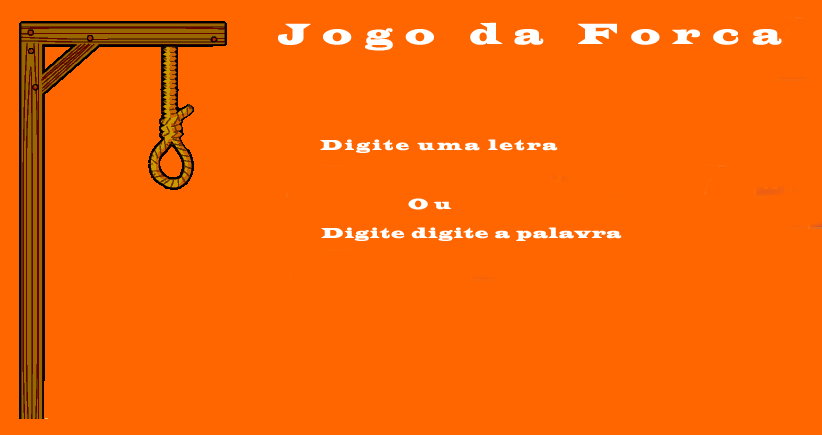
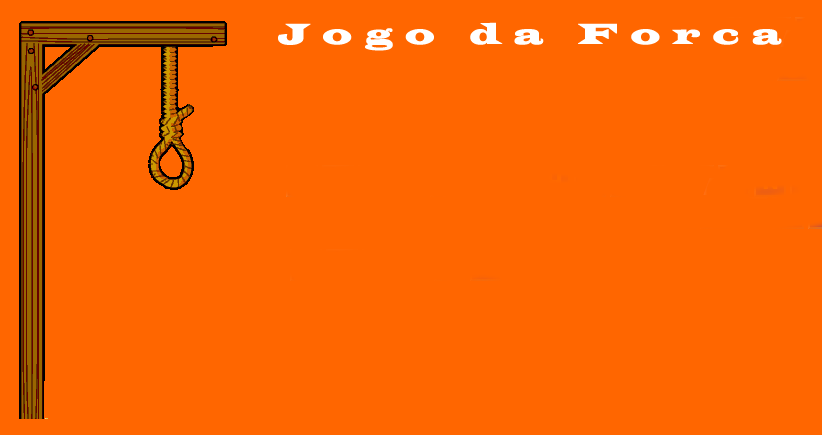
Atualização.

Changed region(s): [[0.3954, 0.508, 0.7603, 0.5678], [0.3954, 0.2989, 0.6995, 0.3586], [0.4866, 0.4483, 0.5474, 0.4782]]

diff --git a/JogoForca/src/main/java/com/jogoforca/ui/FrmPrincipal.java b/JogoForca/src/main/java/com/jogoforca/ui/FrmPrincipal.java
@@ -11,19 +11,26 @@ import javax.swing.JLabel;
 import javax.swing.JButton;
 
 import com.jogoforca.dao.PalavrasDao;
+import com.jogoforca.model.Palavra;
 
 import java.awt.event.ActionListener;
 import java.awt.event.ActionEvent;
+import java.awt.event.KeyListener;
 
 import javax.swing.JDesktopPane;
+import javax.swing.JOptionPane;
 import javax.swing.JTabbedPane;
 import javax.swing.JMenuBar;
 import javax.swing.JMenu;
 import javax.swing.JMenuItem;
 import javax.swing.ImageIcon;
 import javax.swing.JTextField;
+import javax.swing.SwingUtilities;
 
 import java.awt.Window.Type;
+import java.awt.Font;
+import java.awt.event.KeyAdapter;
+import java.awt.event.KeyEvent;
 
 public class FrmPrincipal extends JFrame {
 
@@ -38,7 +45,19 @@ public class FrmPrincipal extends JFrame {
 	final JLabel imgPeDir = new JLabel("");
 	final JLabel imgTronco = new JLabel("");
 	final JLabel imgMaoDir = new JLabel("");
+	
+	JLabel lblPalavra = new JLabel("");
+	
+	final JButton btnIniciar = new JButton("Iniciar Partida");
+	final JButton btnCancelar = new JButton("Cancelar");
+	final JButton btnVerificar = new JButton("Verificar");
 
+	private PalavrasDao daoPalavra = new PalavrasDao();
+	private Palavra palavra = new Palavra();
+	
+	// Serve para ir mostrando o corpo do boneco
+	private Integer contadorBoneco = 0;
+	
 	/**
 	 * Launch the application.
 	 */
@@ -67,7 +86,11 @@ public class FrmPrincipal extends JFrame {
 		setContentPane(contentPane);
 		contentPane.setLayout(null);
 		
-		JButton btnCancelar = new JButton("Cancelar");
+		lblPalavra.setVisible(false);
+		btnIniciar.setEnabled(true);
+		btnCancelar.setEnabled(false);
+		btnVerificar.setEnabled(false);
+		
 		btnCancelar.addActionListener(new ActionListener() {
 			public void actionPerformed(ActionEvent e) {
 				
@@ -81,23 +104,80 @@ public class FrmPrincipal extends JFrame {
 				imgPeEsq.setVisible(true);
 				imgTronco.setVisible(true);
 				
+				btnIniciar.setEnabled(true);
+				btnCancelar.setEnabled(false);
+				lblPalavra.setVisible(false);
+				btnVerificar.setEnabled(false);
+				
 			}
 		});
+		
+		
+		lblPalavra.setFont(new Font("Tahoma", Font.BOLD, 20));
+		lblPalavra.setBounds(280, 80, 504, 31);
+		contentPane.add(lblPalavra);
+		
+		JLabel lblOu = new JLabel("OU");
+		lblOu.setFont(new Font("Tahoma", Font.BOLD, 20));
+		lblOu.setBounds(279, 168, 46, 31);
+		contentPane.add(lblOu);
+		
+		JLabel lblDigiteAPalavra = new JLabel("Digite a Palavra ou Frase:");
+		lblDigiteAPalavra.setFont(new Font("Tahoma", Font.BOLD, 20));
+		lblDigiteAPalavra.setBounds(280, 198, 288, 31);
+		contentPane.add(lblDigiteAPalavra);
+		
+		JLabel lblNewLabel = new JLabel("Digite uma letra:");
+		lblNewLabel.setFont(new Font("Tahoma", Font.BOLD, 20));
+		lblNewLabel.setBounds(280, 136, 180, 31);
+		contentPane.add(lblNewLabel);
 		btnCancelar.setBounds(552, 403, 131, 31);
 		contentPane.add(btnCancelar);
 		
-		JButton btnNewButton = new JButton("Verificar");
-		btnNewButton.setBounds(500, 330, 89, 23);
-		contentPane.add(btnNewButton);
+		
+		btnVerificar.addActionListener(new ActionListener() {
+			public void actionPerformed(ActionEvent e) {
+				
+				// Existe o caracter na palavra
+				if(palavra.getDescricao().indexOf(txtLetra.getText()) != -1){
+					JOptionPane.showMessageDialog(null,"Letra encontrada na Palavra ou Frase!");
+				} else
+				{
+					
+					switch (contadorBoneco) {
+					case 0: imgCabeca.setVisible(true); break;
+					case 1: imgCorpo.setVisible(true); break;
+					case 2: imgMaoDir.setVisible(true); break;
+					case 3: imgMaoEsq.setVisible(true); break;
+					case 4: imgTronco.setVisible(true); break;
+					case 5: imgPeDir.setVisible(true); break;
+					case 6: imgPeEsq.setVisible(true); break;
+					case 7: imgCabeca.setIcon(new ImageIcon(FrmPrincipal.class.getResource("/img/cabecaFim.png"))); break;
+					
+					default:
+						break;
+					}
+					
+					contadorBoneco++;
+					
+				}
+				
+			}
+		});
+		btnVerificar.setBounds(616, 173, 89, 23);
+		contentPane.add(btnVerificar);
 		
 		txtPalavra = new JTextField();
-		txtPalavra.setBounds(261, 327, 229, 29);
+		txtPalavra.setBounds(280, 227, 263, 29);
 		contentPane.add(txtPalavra);
 		txtPalavra.setColumns(10);
 		
 		txtLetra = new JTextField();
+		txtLetra.setFont(new Font("Arial Black", Font.BOLD, 20));
+		txtLetra.addKeyListener(new KeyAdapter() { public void keyTyped(KeyEvent e) { char keyChar = e.getKeyChar(); if (Character.isLowerCase(keyChar)) { e.setKeyChar(Character.toUpperCase(keyChar)); } } });
+		
 		//txtLetra.setFont(new Font("Arial", Font.BOLD, 20));
-		txtLetra.setBounds(394, 171, 46, 31);
+		txtLetra.setBounds(470, 140, 46, 31);
 		contentPane.add(txtLetra);
 		txtLetra.setColumns(10);
 		
@@ -142,9 +222,9 @@ public class FrmPrincipal extends JFrame {
 		JMenu mnAbout = new JMenu("About");
 		menuBar.add(mnAbout);
 		
-		JLabel label = new JLabel("");
-		label.setBounds(132, 195, 84, 107);
-		contentPane.add(label);
+		JLabel lblNewLabel_1 = new JLabel("New label");
+		lblNewLabel_1.setBounds(0, 0, 46, 14);
+		contentPane.add(lblNewLabel_1);
 		
 		
 		imgMaoDir.setIcon(new ImageIcon(FrmPrincipal.class.getResource("/img/maoDir.png")));
@@ -166,10 +246,12 @@ public class FrmPrincipal extends JFrame {
 		imgPeEsq.setBounds(95, 318, 72, 91);
 		contentPane.add(imgPeEsq);
 		
-		JButton btnIniciar = new JButton("Iniciar Partida");
+		
 		btnIniciar.addActionListener(new ActionListener() {
 
 			public void actionPerformed(ActionEvent e) {
+				
+				btnCancelar.setEnabled(true);
 				
 				//Seta invisivel as imagens do boneco
 				imgCabeca.setVisible(false);
@@ -179,6 +261,17 @@ public class FrmPrincipal extends JFrame {
 				imgPeDir.setVisible(false);
 				imgPeEsq.setVisible(false);
 				imgTronco.setVisible(false);
+				
+				palavra = daoPalavra.getPalavraRandomico();
+				
+				System.out.println("PALAVRA: " + palavra.getDescricao());
+				
+				lblPalavra.setText("PALAVRA COM "+palavra.getDescricao().length()+" LETRAS.");
+				lblPalavra.setVisible(true);
+				
+				btnIniciar.setEnabled(false);
+				btnVerificar.setEnabled(true);
+				contadorBoneco = 0;
 				
 			}
 		});
@@ -190,8 +283,9 @@ public class FrmPrincipal extends JFrame {
 		imgFundo.setIcon(new ImageIcon(FrmPrincipal.class.getResource("/img/fundo.png")));
 		contentPane.add(imgFundo);
 		
-		JLabel lblNewLabel = new JLabel("New label");
-		lblNewLabel.setBounds(376, 195, 46, 14);
-		contentPane.add(lblNewLabel);
+		JLabel lblLetra = new JLabel("Digite uma letra:");
+		lblLetra.setFont(new Font("Tahoma", Font.BOLD, 20));
+		lblLetra.setBounds(280, 148, 180, 31);
+		contentPane.add(lblLetra);
 	}
 }

diff --git a/JogoForca/src/main/java/com/jogoforca/ui/FrmPalFrase.java b/JogoForca/src/main/java/com/jogoforca/ui/FrmPalFrase.java
@@ -16,6 +16,8 @@ import com.jogoforca.model.Palavra;
 
 import java.awt.event.ActionListener;
 import java.awt.event.ActionEvent;
+import java.awt.event.KeyAdapter;
+import java.awt.event.KeyEvent;
 
 public class FrmPalFrase extends JDialog {
 
@@ -34,6 +36,9 @@ public class FrmPalFrase extends JDialog {
 		contentPanel.setLayout(null);
 		{
 			textField = new JTextField();
+			
+			textField.addKeyListener(new KeyAdapter() { public void keyTyped(KeyEvent e) { char keyChar = e.getKeyChar(); if (Character.isLowerCase(keyChar)) { e.setKeyChar(Character.toUpperCase(keyChar)); } } });
+			
 			textField.setBounds(10, 28, 296, 20);
 			contentPanel.add(textField);
 			textField.setColumns(10);
@@ -59,7 +64,7 @@ public class FrmPalFrase extends JDialog {
 						Boolean retorno =  dao.saveOrUpdate(palavra);
 						
 						if(retorno){
-							JOptionPane.showMessageDialog(null,"Dados salvos com sucesso");
+							JOptionPane.showMessageDialog(null,"Dados salvos com sucesso! \nTotal de registros: " + dao.getCountRegistros());
 							FrmPalFrase.this.dispose();
 						} else {
 							JOptionPane.showMessageDialog(null,"Houve um problema ao salvar!");

diff --git a/JogoForca/src/main/java/com/jogoforca/dao/JogadorDao.java b/JogoForca/src/main/java/com/jogoforca/dao/JogadorDao.java
@@ -1,0 +1,29 @@
+package com.jogoforca.dao;
+
+import java.util.List;
+
+import com.jogoforca.model.Palavra;
+
+public class JogadorDao implements IGenericDao<Palavra> {
+
+	public boolean saveOrUpdate(Palavra obj) {
+		// TODO Auto-generated method stub
+		return false;
+	}
+
+	public boolean delete(int id) {
+		// TODO Auto-generated method stub
+		return false;
+	}
+
+	public List<Palavra> getAll() {
+		// TODO Auto-generated method stub
+		return null;
+	}
+
+	public Palavra getById(int pkCodigo) {
+		// TODO Auto-generated method stub
+		return null;
+	}
+
+}

diff --git a/JogoForca/src/main/java/com/jogoforca/util/Util.java b/JogoForca/src/main/java/com/jogoforca/util/Util.java
@@ -1,0 +1,19 @@
+package com.jogoforca.util;
+
+import java.util.Random;
+
+public class Util {
+	
+	public static int randInt(int min, int max) {
+
+	    // Usually this can be a field rather than a method variable
+	    Random rand = new Random();
+
+	    // nextInt is normally exclusive of the top value,
+	    // so add 1 to make it inclusive
+	    int randomNum = rand.nextInt((max - min) + 1) + min;
+
+	    return randomNum;
+	}
+
+}

diff --git a/JogoForca/src/main/java/com/jogoforca/db/Conexao.java b/JogoForca/src/main/java/com/jogoforca/db/Conexao.java
@@ -8,7 +8,7 @@ public class Conexao {
 	
 	    private static String JDBC_DRIVER = "org.hsqldb.jdbcDriver";  
 	    //private static String DATABASE_URL = "jdbc:hsqldb:file:c:/bd/banco.bd";   
-	    private static String DATABASE_URL = "jdbc:hsqldb:file:JogoForca.bd"; 
+	    private static String DATABASE_URL = "jdbc:hsqldb:file:/bd/JogoForca.bd"; 
 	    
 	    private Connection conn = null; 
 	      

diff --git a/JogoForca/src/main/java/com/jogoforca/dao/RankingDao.java b/JogoForca/src/main/java/com/jogoforca/dao/RankingDao.java
@@ -1,0 +1,5 @@
+package com.jogoforca.dao;
+
+public class RankingDao {
+
+}

diff --git a/JogoForca/src/main/java/com/jogoforca/model/Jogador.java b/JogoForca/src/main/java/com/jogoforca/model/Jogador.java
@@ -1,0 +1,5 @@
+package com.jogoforca.model;
+
+public class Jogador {
+
+}

diff --git a/JogoForca/src/main/java/com/jogoforca/model/Ranking.java b/JogoForca/src/main/java/com/jogoforca/model/Ranking.java
@@ -1,0 +1,5 @@
+package com.jogoforca.model;
+
+public class Ranking {
+
+}
